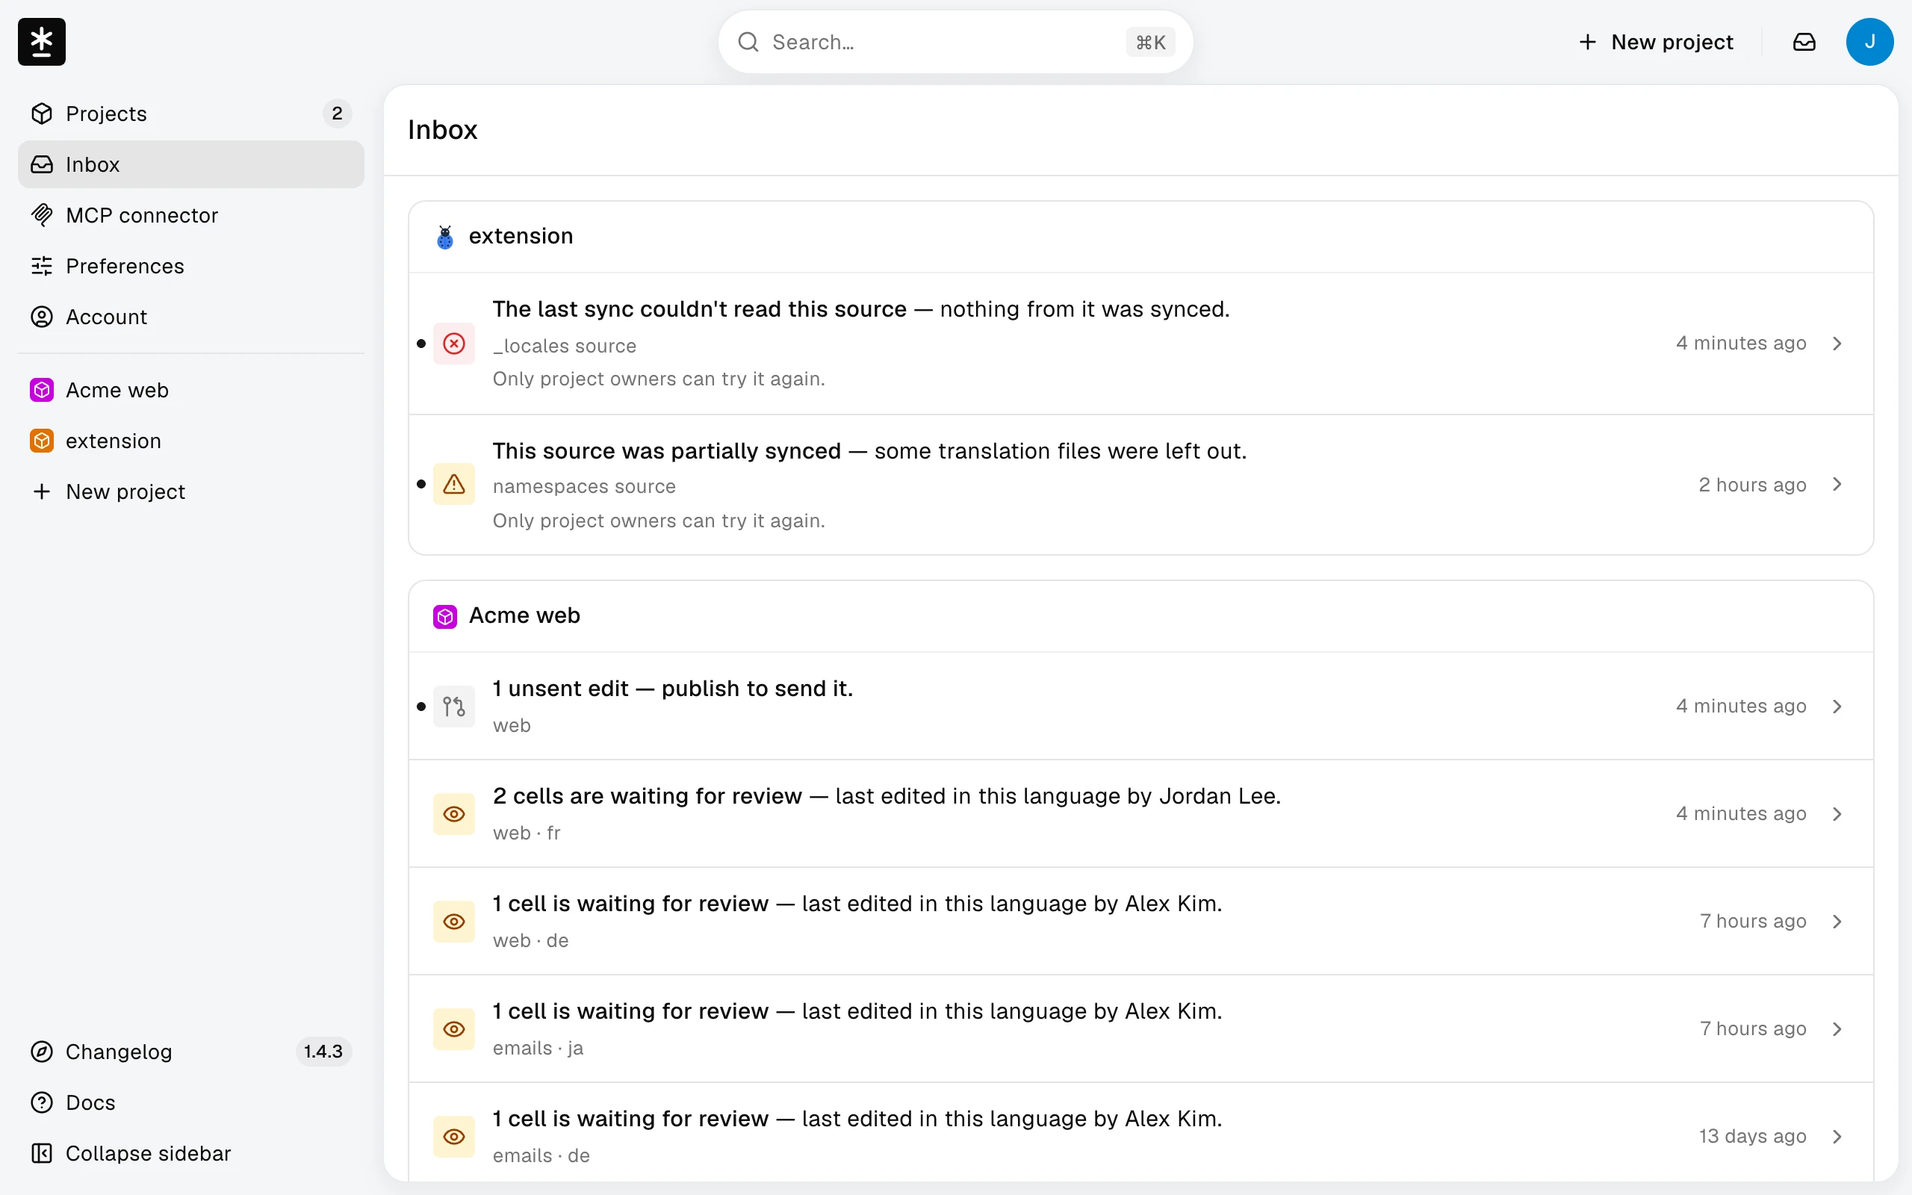
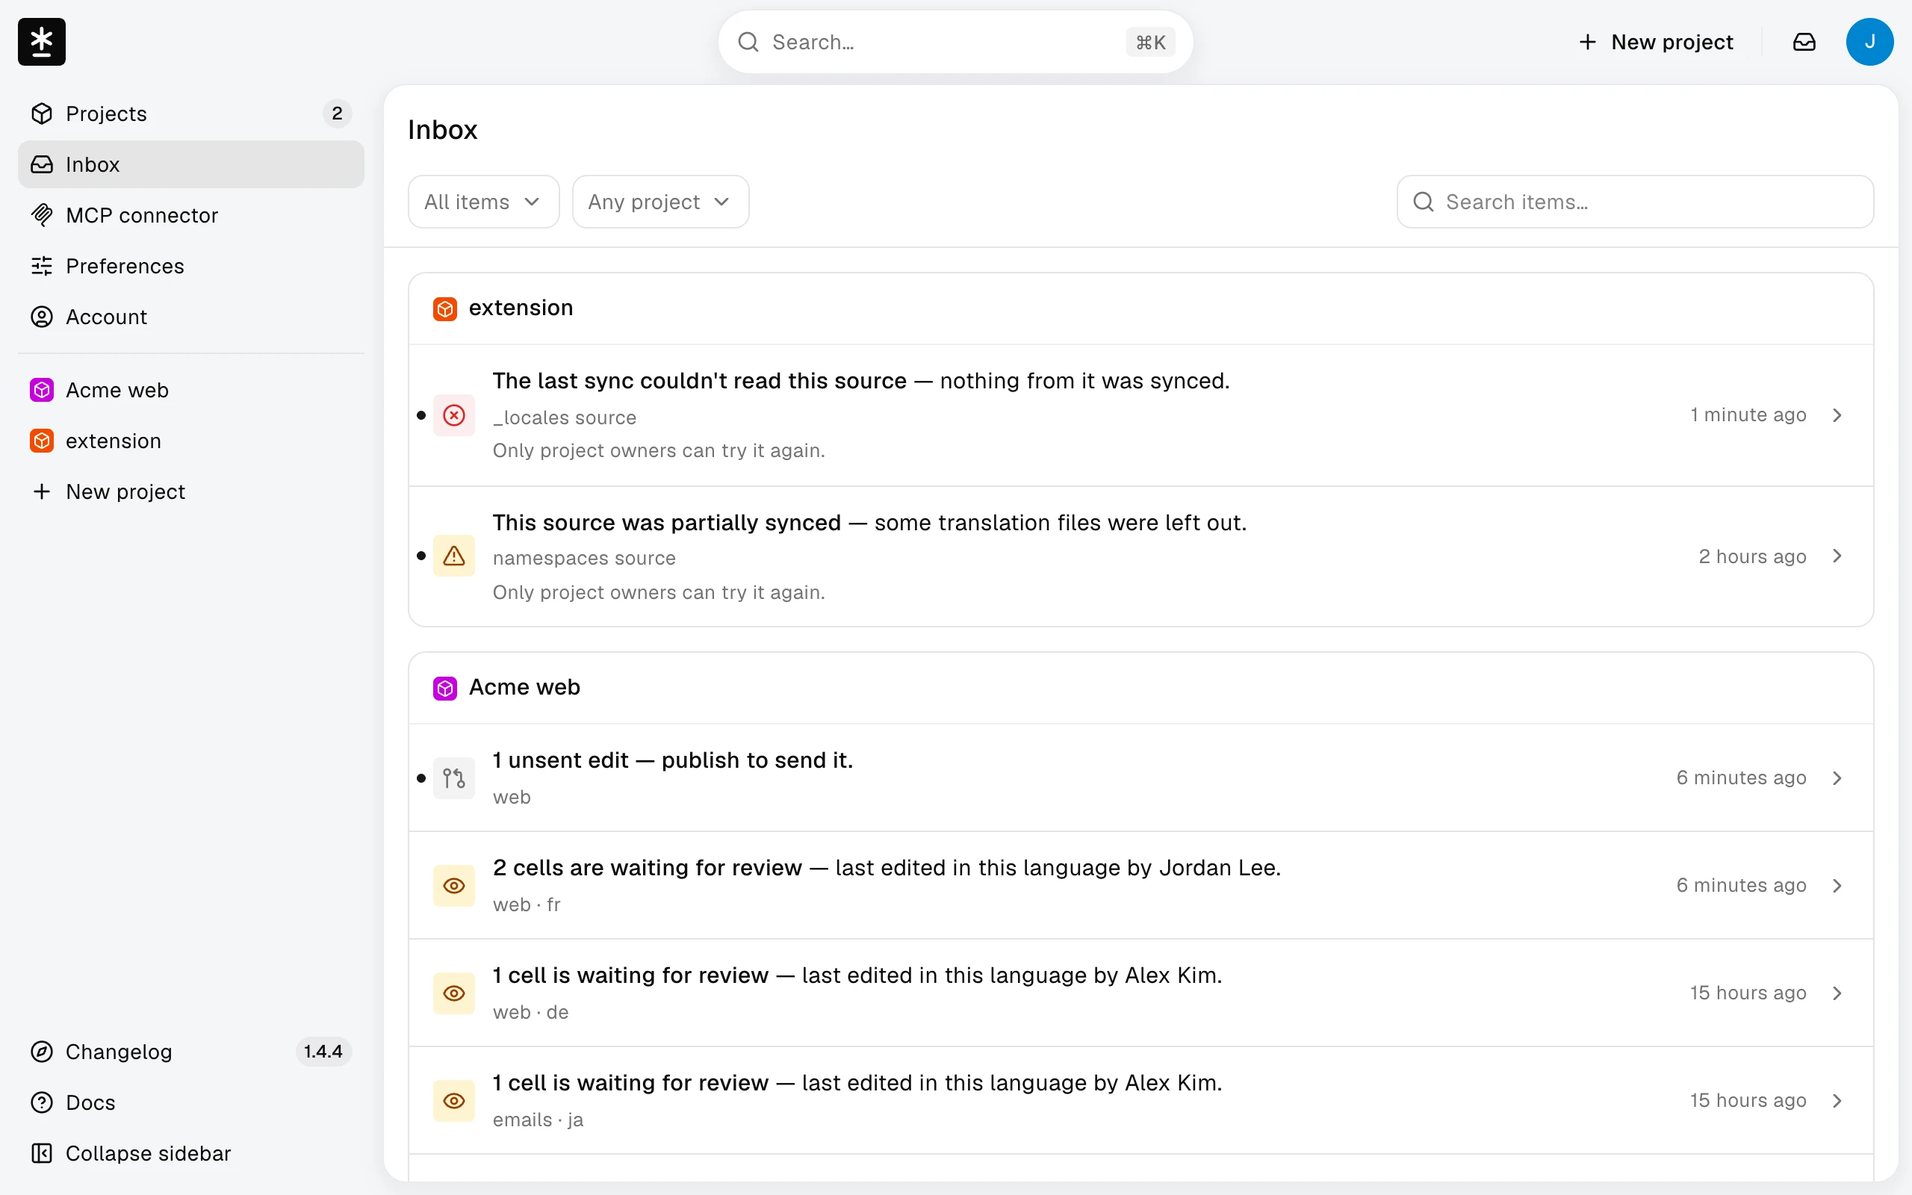
docs(guide): refresh Inbox filters screenshot and source mappings

diff --git a/guide/SHOOTING.md b/guide/SHOOTING.md
@@ -161,7 +161,7 @@
 | /guide/push-token-secret.webp | lib/onboarding/workflow.ts | de45de3dad10e1231c932e05ddc616b5397b29d1 | 2560x1600 |
 | /guide/workflow-file.webp | components/settings/ci-card.tsx, components/onboarding/workflow-block.tsx, lib/onboarding/workflow.ts | fac88a0789fb7a98772a4a91085c4fbaa86099c9, e0ac1f57f9f9030693e91490d78a1e8fb03714ec, de45de3dad10e1231c932e05ddc616b5397b29d1 | 2560x1600 |
 | /guide/actions-policy.webp | lib/onboarding/workflow.ts, .github/actions/malmoi-i18n-push/action.yml | de45de3dad10e1231c932e05ddc616b5397b29d1, 559ddc28bcd1c0fa8f4a1946dd15f7e8fcd0f03d | 2560x1600 |
-| /guide/translation-editor.webp | components/translations/workspace/key-list.tsx, components/translations/workspace/locale-panel.tsx, components/translations/workspace/workspace.tsx, components/translations/workspace/tree-panel.tsx | 2c42ea96c69fe2f89dd975ed4d0435bab8f2df2b, 30024f2edc892552e3f844405a1d0253fec46ddc, 537e597f59dbdc1227854205c4577c32bab380e1, 1e93cf6e783081414d514b315d21dd4578602550 | 2560x1600 |
+| /guide/translation-editor.webp | components/translations/workspace/key-list.tsx, components/translations/workspace/locale-panel.tsx, components/translations/workspace/workspace.tsx, components/translations/workspace/tree-panel.tsx, components/translations/workspace/filter-menu.tsx, components/ui/filter-menu.tsx | 2c42ea96c69fe2f89dd975ed4d0435bab8f2df2b, 4b2203aacfa954db9ac0811cca5b21513807caf5, 5df630251d1a2ca581462bc0ae3c0030e767eaa9, 1e93cf6e783081414d514b315d21dd4578602550, 9bca3bdb0cd0de05353601ad25d84b3bca76c752, d6495652eca69626ce9574e17c52ec7813e7b021 | 2560x1600 |
 | /guide/publish-preview.webp | components/publish-button.tsx, lib/publish/preview.ts | 035ee1364fd82710d1ca646d93aa523817475b2f, 8376a9b3e2896b2728bbf79a64281b3fced96bb7 | 2560x1600 |
 | /guide/project-home.webp | app/(edit)/projects/[slug]/(home)/page.tsx, components/home/count-cards.tsx, components/home/meta-column.tsx, components/home/meta-tabs.tsx, dict:projects.summary.newFromGithub, dict:home.meta.platform | 705017cd7d48038d6777a2620df97ed5a9e0c6a7, fe681225a2e034f689193fb09b601855dbd8d32d, 0e67fc7c827d5c28da3bf0c9f7ea71a127c27c6f, 326a71e9fadefec3992bad2e9acf0192fa107a35, d446176b65708906041b4a7df027fa8e2155349d, 3960ec4ca5fb5e5d8cdb2cc1c5121c003e426517 | 2560x1600 |
 | /guide/invite-members.webp | components/members/invite-modal.tsx | eb7d59815ce95f005cb00d3a9825c6180c0e1b5d | 2560x1600 |
@@ -170,13 +170,13 @@
 | /guide/add-sources.webp | components/sources/add-sources-modal.tsx | 3a68b93e1836d12f8bef9de4e7aad708b0aa3f7c | 2560x1600 |
 | /guide/archive-card.webp | components/settings/archive-card.tsx | fbf5ba1bd7b87ff3c8ea910d2876d810b3deb440 | 2560x1600 |
 | /guide/accept-invitation.webp | app/invite/[token]/page.tsx, components/invite/project-card.tsx, components/signin/auth-layout.tsx | d4d36ad336ad4d41488b964252c22a299fd49457, f9d7dc35d9d0493e3105516374f0e78a24ad7fe2, ba72c94d3b0d2211607221055fa104ef50e4b032 | 2560x1600 |
-| /guide/state-filter.webp | components/translations/workspace/filter-menu.tsx, components/translations/workspace/key-list.tsx, dict:translations.workspace.filters.state.any, dict:translations.workspace.filters.state.incomplete, dict:translations.workspace.filters.state.unsent, dict:translations.workspace.filters.state.review, dict:translations.workspace.filters.state.new | 890b223a1897f5bc723c15e92090c1e1b52cb9e7, 2c42ea96c69fe2f89dd975ed4d0435bab8f2df2b, b823bb9b42b3672439670b5267fe5328d7524380, 387fd1bbc18419e26c612f4acad9213e5073ade4, 0d09fa0d8c890b48da20aefe409a39eb962b5114, 33a506cf6ec5a56c261838f0a5a3d29cd7f2dacc, d446176b65708906041b4a7df027fa8e2155349d | 2560x1600 |
+| /guide/state-filter.webp | components/translations/workspace/filter-menu.tsx, components/translations/workspace/key-list.tsx, dict:translations.workspace.filters.state.any, dict:translations.workspace.filters.state.incomplete, dict:translations.workspace.filters.state.unsent, dict:translations.workspace.filters.state.review, dict:translations.workspace.filters.state.new, components/ui/filter-menu.tsx | 9bca3bdb0cd0de05353601ad25d84b3bca76c752, 2c42ea96c69fe2f89dd975ed4d0435bab8f2df2b, b823bb9b42b3672439670b5267fe5328d7524380, 387fd1bbc18419e26c612f4acad9213e5073ade4, 0d09fa0d8c890b48da20aefe409a39eb962b5114, 33a506cf6ec5a56c261838f0a5a3d29cd7f2dacc, d446176b65708906041b4a7df027fa8e2155349d, d6495652eca69626ce9574e17c52ec7813e7b021 | 2560x1600 |
 | /guide/inbox-open.webp | components/shell/attention-inbox.tsx, lib/home/attention-view.ts, lib/inbox/plan.ts, components/inbox/row-slots.tsx | 5aead9b313ab4e1dd95b66b3771d4c1ebb1dc601, c5ba695d6c513dd1ddff91c2ac5445d80220d337, 6d057eff9ae820a925cf17854f3d8af155130ae2, bb83f0799e4905201eae5d7120a3ccb70b6f2d44 | 2560x1600 |
-| /guide/inbox-page.webp | app/(edit)/inbox/page.tsx, components/inbox/inbox-list.tsx, components/inbox/row-slots.tsx, lib/inbox/plan.ts | df74c31a4dd36d61615638890d73981e0d854782, b3a9074b423dd11a1139d71e19ddf98480099630, bb83f0799e4905201eae5d7120a3ccb70b6f2d44, 6d057eff9ae820a925cf17854f3d8af155130ae2 | 2560x1600 |
+| /guide/inbox-page.webp | app/(edit)/inbox/page.tsx, components/inbox/inbox-list.tsx, components/inbox/row-slots.tsx, lib/inbox/plan.ts, components/inbox/inbox-filters.tsx, components/ui/filter-menu.tsx, components/ui/search-input.tsx | 1ee45588f2ca27ebbf6baaf40861b036c9f7fd6f, b3a9074b423dd11a1139d71e19ddf98480099630, bb83f0799e4905201eae5d7120a3ccb70b6f2d44, 6d057eff9ae820a925cf17854f3d8af155130ae2, 1d68b5a9faf97118579b40de9d94439af36fa60e, d6495652eca69626ce9574e17c52ec7813e7b021, 8b86473d74a4dcd6f2f62d881aedbbb7dd8a2633 | 2560x1600 |
 | /guide/home-publish.webp | app/(edit)/projects/[slug]/(home)/page.tsx, components/home/count-cards.tsx, components/publish-button.tsx, dict:projects.summary.newFromGithub, dict:home.meta.platform | 705017cd7d48038d6777a2620df97ed5a9e0c6a7, fe681225a2e034f689193fb09b601855dbd8d32d, 035ee1364fd82710d1ca646d93aa523817475b2f, d446176b65708906041b4a7df027fa8e2155349d, 3960ec4ca5fb5e5d8cdb2cc1c5121c003e426517 | 2560x1600 |
 | /guide/publish-result.webp | components/publish-button.tsx | 035ee1364fd82710d1ca646d93aa523817475b2f | 2560x1600 |
 | /guide/home-paused.webp | app/(edit)/projects/[slug]/(home)/page.tsx, components/home/count-cards.tsx, components/home/meta-column.tsx, components/home/meta-tabs.tsx, dict:home.cards.held.pending-edits, dict:projects.summary.newFromGithub | 705017cd7d48038d6777a2620df97ed5a9e0c6a7, fe681225a2e034f689193fb09b601855dbd8d32d, 0e67fc7c827d5c28da3bf0c9f7ea71a127c27c6f, 326a71e9fadefec3992bad2e9acf0192fa107a35, e7daa697ea395700d6e0a57f5dc83a59b2b30aa7, d446176b65708906041b4a7df027fa8e2155349d | 2560x1600 |
-| /guide/revert-confirm.webp | components/translations/workspace/workspace.tsx, components/translations/edit-loss-banner.tsx, components/translations/workspace/key-list.tsx | 537e597f59dbdc1227854205c4577c32bab380e1, 1c1091fe8e495bea05b41e9022bb758b522c15e4, 2c42ea96c69fe2f89dd975ed4d0435bab8f2df2b | 2560x1600 |
+| /guide/revert-confirm.webp | components/translations/workspace/workspace.tsx, components/translations/edit-loss-banner.tsx, components/translations/workspace/key-list.tsx, components/translations/workspace/filter-menu.tsx, components/ui/filter-menu.tsx | 5df630251d1a2ca581462bc0ae3c0030e767eaa9, 1c1091fe8e495bea05b41e9022bb758b522c15e4, 2c42ea96c69fe2f89dd975ed4d0435bab8f2df2b, 9bca3bdb0cd0de05353601ad25d84b3bca76c752, d6495652eca69626ce9574e17c52ec7813e7b021 | 2560x1600 |
 | /guide/sync-discard.webp | components/home/sync-button.tsx, dict:projects.summary.newFromGithub, dict:home.meta.platform | 5eb5a087f076d7e16e38c068655355ede2f9f723, d446176b65708906041b4a7df027fa8e2155349d, 3960ec4ca5fb5e5d8cdb2cc1c5121c003e426517 | 2560x1600 |
 | /guide/logs-event.webp | components/logs/event-dialog.tsx, components/logs/event-detail.tsx | f76913a6d8972a169402769e9951ef6dbb9a79bb, b81612c86e12f024bb0e14aa10a991f7e3a60294 | 2560x1600 |
 | /guide/account.webp | app/(edit)/account/page.tsx, components/account/profile-picture.tsx, components/account/login-methods.tsx, components/account/github-section.tsx, components/account/gitlab-section.tsx | 3a7b63f8d153d5bd28e8c5f01885937aa5697952, c4ea53b3f682c942003dac5b81bb7eb80a72d269, 533e6a97c384e8720357073991cd99e8e4ae2fe5, 14e5cf37c07bc1e566ce9aa32ce6392663269af2, 1925ee36a6dc1bb83791d096b39fb13bdc845490 | 2560x1600 |
@@ -201,7 +201,7 @@
 | /guide/gitlab-ci-variable.webp | lib/onboarding/gitlab-ci.ts | eebc40dc9eb976da10576961b0f166da828a5699 | 2560x1600 |
 | /guide/gitlab-protected-branch.webp | lib/onboarding/gitlab-ci.ts | eebc40dc9eb976da10576961b0f166da828a5699 | 2560x1600 |
 | /guide/home-sync-tab.webp | app/(edit)/projects/[slug]/(home)/page.tsx, components/home/meta-column.tsx, components/home/meta-tabs.tsx, components/home/sync-result.tsx, dict:projects.summary.newFromGithub | 705017cd7d48038d6777a2620df97ed5a9e0c6a7, 0e67fc7c827d5c28da3bf0c9f7ea71a127c27c6f, 326a71e9fadefec3992bad2e9acf0192fa107a35, aca196a214f9e8e6c9f460da7126300de24fc04a, d446176b65708906041b4a7df027fa8e2155349d | 2560x1600 |
-| /guide/logs-list.webp | app/(edit)/projects/[slug]/logs/page.tsx, components/logs/log-filters.tsx, components/logs/event-row.tsx | 965a0af77acd975284dd5de8cec3b7b17207000a, 8d9380cf37e4a71f31ad628ab2131e396c341f3a, 81133eea79512138c1a32ae17ed90e5c562780c1 | 2560x1600 |
+| /guide/logs-list.webp | app/(edit)/projects/[slug]/logs/page.tsx, components/logs/log-filters.tsx, components/logs/event-row.tsx, components/ui/filter-menu.tsx | 965a0af77acd975284dd5de8cec3b7b17207000a, dca3b2a89e68e4655d112f01349d2c418bb90897, 81133eea79512138c1a32ae17ed90e5c562780c1, d6495652eca69626ce9574e17c52ec7813e7b021 | 2560x1600 |
 | /guide/source-details.webp | components/sources/source-detail-modal.tsx, components/sources/base-language-form.tsx | 0f470aee0847fb2a6222fe04e52a77ae3541d134, cf272f613cb1d0cd11a00a71aae14f865656b684 | 2560x1600 |
 | /guide/languages-card.webp | components/sources/languages-card.tsx, components/sources/language-row.ts | ce08bb1c398870fdca7c797098b1b35e31b27db5, 1b9ff9bc4526fa9ebdc7b8128b24728fd69cbc24 | 2560x1600 |
 | /guide/language-add.webp | components/sources/add-locale-dialog.tsx | d2cd2c1050bdb700660ecb31cb033b08282d8a3e | 2560x1600 |
@@ -214,8 +214,8 @@
 | /guide/preferences-time-zone.webp | components/preferences/time-zone-card.tsx, components/preferences/preference-select-card.tsx | e89003ad1ccfc47db86ab5c6afc09e6f95d6aefb, b3369b152d1f9da4cc00f01dddb6fc036d14d504 | 2560x1600 |
 | /guide/invite-unavailable.webp | app/invite/[token]/page.tsx | d4d36ad336ad4d41488b964252c22a299fd49457 | 2560x1600 |
 | /guide/global-search.webp | components/search/search-dialog.tsx | db77550c790611dc205739a8e22e70ab6949ea49 | 2560x1600 |
-| /guide/translation-edit.webp | components/translations/workspace/locale-panel.tsx, components/translations/workspace/key-list.tsx, components/translations/workspace/workspace.tsx | 30024f2edc892552e3f844405a1d0253fec46ddc, 2c42ea96c69fe2f89dd975ed4d0435bab8f2df2b, 537e597f59dbdc1227854205c4577c32bab380e1 | 2560x1600 |
-| /guide/unsaved-changes.webp | components/translations/workspace/workspace.tsx | 537e597f59dbdc1227854205c4577c32bab380e1 | 2560x1600 |
+| /guide/translation-edit.webp | components/translations/workspace/locale-panel.tsx, components/translations/workspace/key-list.tsx, components/translations/workspace/workspace.tsx, components/translations/workspace/filter-menu.tsx, components/ui/filter-menu.tsx | 4b2203aacfa954db9ac0811cca5b21513807caf5, 2c42ea96c69fe2f89dd975ed4d0435bab8f2df2b, 5df630251d1a2ca581462bc0ae3c0030e767eaa9, 9bca3bdb0cd0de05353601ad25d84b3bca76c752, d6495652eca69626ce9574e17c52ec7813e7b021 | 2560x1600 |
+| /guide/unsaved-changes.webp | components/translations/workspace/workspace.tsx, components/translations/workspace/filter-menu.tsx, components/ui/filter-menu.tsx | 5df630251d1a2ca581462bc0ae3c0030e767eaa9, 9bca3bdb0cd0de05353601ad25d84b3bca76c752, d6495652eca69626ce9574e17c52ec7813e7b021 | 2560x1600 |
 | /guide/github-repository-card.webp | components/settings/repository-card.tsx, app/(edit)/projects/[slug]/settings/page.tsx | 9c39b9487042b401f4d16811dc3087bda0d389ac, 47ff29741aedf6c233ce93830805293f203573da | 2560x1600 |
 | /guide/repository-not-listed.webp | components/onboarding/steps/repo.tsx, components/onboarding/new-project.tsx | 4b0847a050c26dfcdef9e4cdd55d272587a1ab0f, d082e1b6ca92373b70ca7b151c439d7a15358521 | 2560x1600 |
 | /guide/rotate-token.webp | components/settings/push-token-panel.tsx, components/settings/ci-card.tsx | d6f18734ba4ba7bdf579e8c0916a1c458bb1e8cb, fac88a0789fb7a98772a4a91085c4fbaa86099c9 | 2560x1600 |
@@ -296,3 +296,4 @@
 - 2026-10-18 source-row-locale-meter GS — `guide:check` stale 20컷(22건) 정리. **재촬영 17**(1280×800 · DPR 2, WebP quality 90): OWNER `project-home` · `home-sync-tab` · `sources`(행마다 언어 막대 — 이번 기능) · `source-details` · `source-remove` · `gitlab-ci-file`(job이 `malmoi-i18n-push-gitlab-v2` 태그·SHA를 박는다, `MALMOI_I18N_API_URL` 줄은 지웠다) · `languages-card`(진행률 칸이 개수 기준 200 고정 · 비활성 띠 `It has no translations.`) · `language-add` · `language-remove` · `publish-language-changes` · `home-paused`(Sync 탭) · `revert-confirm` / EDITOR `translation-editor` · `translation-edit` · `unsaved-changes` · `home-publish` · `publish-result`. **SHA만 갱신 3**: `publish-preview` — 번역만 든 미리보기(1건)를 지금 코드로 띄워 옛 컷과 견줬더니 제목·PR 줄·파일 머리(`N changes · N keys`)·행·작성자·바닥 배치가 같다(`publish-button.tsx`의 변경은 요청 정리 갈래와 행 0 표 생략이다) · `gitlab-ci-variable` · `gitlab-protected-branch`(gitlab.com 화면 — `gitlab-ci.ts`의 태그·SHA 줄은 그 폼에 안 들어간다). ⚠ 기록된 blob 여럿(`workspace.tsx` · `publish-button.tsx` · `source-detail-modal.tsx` · `language-row.ts` · `remove-locale-dialog.tsx`)이 어느 커밋에도 없는 값이었다(v1.4.3 squash 전 작업 트리에서 잰 값) — diff로 화면 불변을 판정할 수 없어 다시 찍었다. 셋업은 10-17 판과 같다(`emails`에 `ko` orphaned 행 SQL → `welcome.cta` ja 저장 → `es` 추가 대화상자 → 추가 → `ja` 제거 확인창 → 제거 → `welcome.cta` es 저장 → 카드 → `es` 추가 취소 → 언어만 남은 미리보기(PR 안 엶) → `ja` 제거 취소 → `es`·`ko`의 `Locale`·`Translation`·`TranslationBaseline` 행을 그 소스 id로 좁힌 SQL로 삭제 · OWNER `checkout.submit` de `Jetzt bestellen` → paused·Revert 확인창 → 실제 Revert · EDITOR fr `Passer la commande` → Home·미리보기(PR 안 엶) → 빈 값 재저장 → Publish(`Nothing differs`) → 결과). 전후 대조: `acme-web` 로케일 여덟·`LocaleChange` 0·미전달 0(전체) 그대로, 사건 154→166(전체 1606→1618), 계정 언어·테마·`attentionSeenAt`·OAuth·API 토큰·`GitLabConnection` 불변, GitHub 쓰기 없음. ⚠ **새로 밟은 것**: ① 버튼·행을 `element.click()`(DOM)으로 누르면 키보드 모달리티로 남아 대화상자가 연 첫 버튼·X·대화상자 자체에 `:focus-visible` 링이 찍힌다 — 실제 포인터 클릭(`page.click`·`page.mouse.click`)으로 열고, 그래도 링이 남으면 캡처 직전 그 요소의 `outline`만 끈다. ② Radix 탭(`Sync`)은 DOM `click()`이 먹지 않는다(탭 전환은 pointerdown) — `page.click('loc=role:tab[name="Sync"]')`. ③ 언어 막대가 선 Sources는 `[data-source-row]:has-text("emails")`로 연다.
 - 2026-10-18 project-row-redesign G — `guide:check` stale 2컷(7건) **재촬영**(1280×800 · DPR 2, WebP quality 90, EDITOR): `inbox-open` · `inbox-page`. 바뀐 것은 Inbox 정렬(안 읽은 항목이 있는 프로젝트 먼저 — `86ce7a67`)과 연결 끊김 항목(`needs_reconnect`)의 추가다. 촬영 픽스처에는 끊긴 프로젝트가 없어 그 항목은 컷에 없다 — 장면은 전 판과 같다(그룹 둘 · 안 읽은 점 셋). 매핑 소스·치수 그대로, SHA 갱신. 셋업: Google로 EDITOR 로그인 → `checkout.submit` fr `Passer la commande` 저장 → 그 **뒤에** `bugshot-i18n-test-qa`의 `_locales`에 `import-failed`(now) · `namespaces`에 `partial-import`(2h 전)를 심었다 → EDITOR `attentionSeenAt` NULL → `inbox-open`(번역 화면 위 드롭다운) → 다시 NULL → `inbox-page` → 실패 표시 NULL 복원 → 빈 값 재저장 → Publish(`Nothing differs` 확인 뒤에만 누름 → `Nothing changed in the files`) → EDITOR `attentionSeenAt`을 촬영 전 원문 `2026-10-10 23:14:42.633`으로 복원 → 로그아웃 → GitHub로 OWNER 복귀. 전후 대조: 미전달 0→0(전 프로젝트), `acme-web` 사건 166→169(편집·재저장·Publish), 전체 1618→1621, 실패 표시 0, 계정 언어·테마·`attentionSeenAt`·세션 수·OAuth·API 토큰·`GitLabConnection`·`acme-web` 로케일 불변, GitHub 쓰기 없음. ⚠ **새로 밟은 것**: 드롭다운 컷 다음 명령(`keyboard.press("Escape")` + `clearDeviceMetricsOverride`)이 출력 없이 멈췄다(원인 미확인 — 끊고 같은 Escape만 다시 보내자 바로 됐다). 그 명령 뒤에 이은 DB 쓰기·스크립트 작성도 함께 돌지 않았으므로, 멈춘 체인을 끊었으면 뒤 단계가 실행됐는지 하나씩 확인한다.
 - 2026-10-18 language-request-todo — Home(`page.tsx`·`count-cards.tsx`)·Inbox(`attention-view.ts`·`plan.ts`) 변경으로 `project-home` · `home-publish` · `home-paused` · `home-sync-tab` · `inbox-open` · `inbox-page`가 stale — **재촬영 없이 blob SHA만 갱신**했다. 바뀐 줄은 전부 언어 변경(`language_unsent` 종류 · `locale-change-pending` 보류 · `languageChanges` 보조 줄 · `HoldLater` 기본 줄) 갈래이고, 촬영 데이터(dev DB 활성 프로젝트 11개)에 `LocaleChange` 행·전달된 언어 효과가 0이라 여섯 화면 어디에도 그 갈래가 그려지지 않는다(`languageChanges` 0 → 기존 `nothing to send`, `HoldLater` 기본 줄 = 같은 문장).
+- 2026-10-18 inbox-filter-search S — `guide:check` stale 7컷(9건) 정리. **재촬영 1**: `inbox-page`(EDITOR, en 계정·쿠키, 1280×800 · DPR 2, 2560×1600 WebP quality 90) — 기본 `All items` · `Any project` · `Search items…` 줄, 카드 둘과 안 읽은 점 셋. 실제 로컬 앱을 캡처해 이름·아바타·프로젝트 이미지를 마스킹하고 PNG·변환 WebP를 각각 육안 확인한 뒤 반영했다. **SHA만 갱신 6**: `translation-editor` · `translation-edit` · `revert-confirm` · `unsaved-changes`는 `FilterMenu`→`OptionsFilterMenu` import·호출 이름만 바뀌었다. `state-filter` · `logs-list`는 같은 트리거·메뉴 껍데기를 공통 `components/ui/filter-menu.tsx`로 옮겼다 — 기존 소비자는 `className`을 넘기지 않아 라벨 span을 추가하지 않고, 기본 크기·정렬·`min-w-53`·항목·설명·문구를 그대로 쓴다. 기록된 blob과 현재 소스의 diff 및 Q2의 실제 소비자 회귀 근거로 화면 불변을 판정했다. 매핑에 공통 `filter-menu.tsx`와 해당 번역 래퍼를 더하고, Inbox에는 `inbox-filters.tsx`·`search-input.tsx`도 더했다(각 행 소스·blob 개수 일치, 일곱 파일 모두 2560×1600). **픽스처·원복**: 첫 앱 탐색 전에 계정 둘의 `attentionSeenAt`·언어·테마·시간대, 상주 프로젝트 둘, QA 소스 둘, `checkout.submit` fr 칸의 값·저자·시각·검토 상태·편집 토큰을 저장했다. dev DB에서 그 칸에 촬영용 값·토큰을, QA 소스 둘에 실패·일부 동기화 표시를 임시로 심고 EDITOR 워터마크만 NULL로 뒀다. 촬영 뒤 OWNER 세션으로 복귀하고 TaskSpace 15 종료·직접 시작한 서버 정지 후 저장한 필드 전부를 정확히 복원했다. 미전달 전체 7→7, 사건 전체 1629→1629, 상주 프로젝트 유지, Publish·Sync·원격 리포 쓰기 없음. `.scratch/inbox-filter-search/S-restoration.json`의 `allRestored=true`. 마스킹 표 추가·본문 후속·남은 컷 없음.
